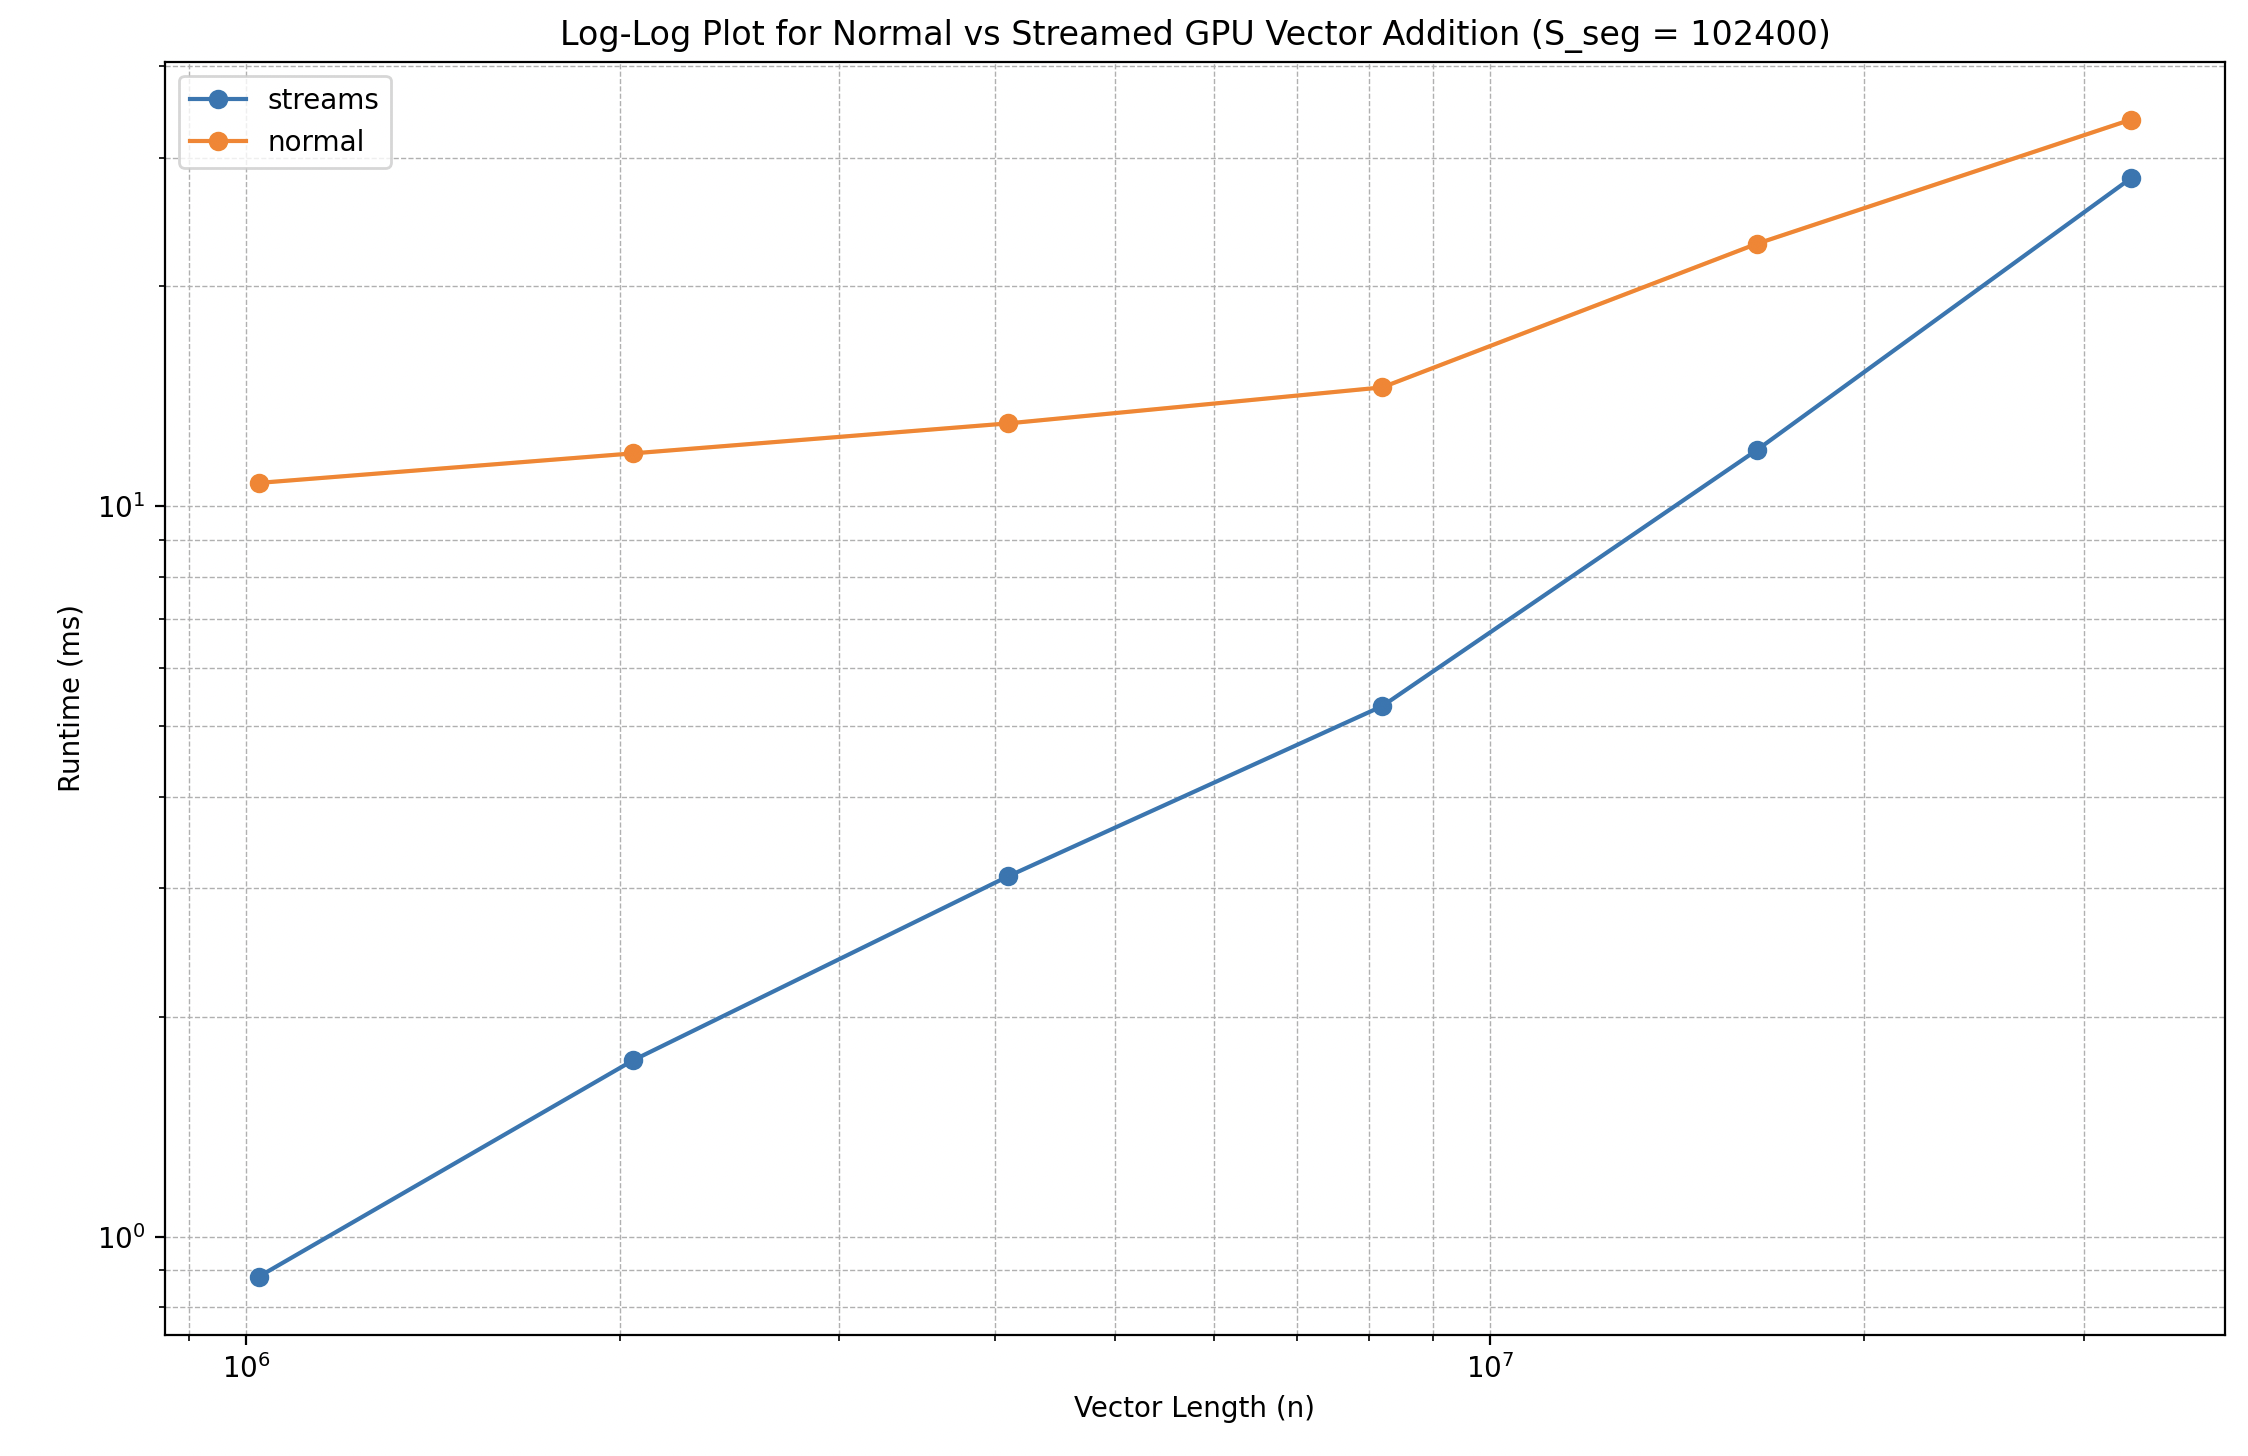
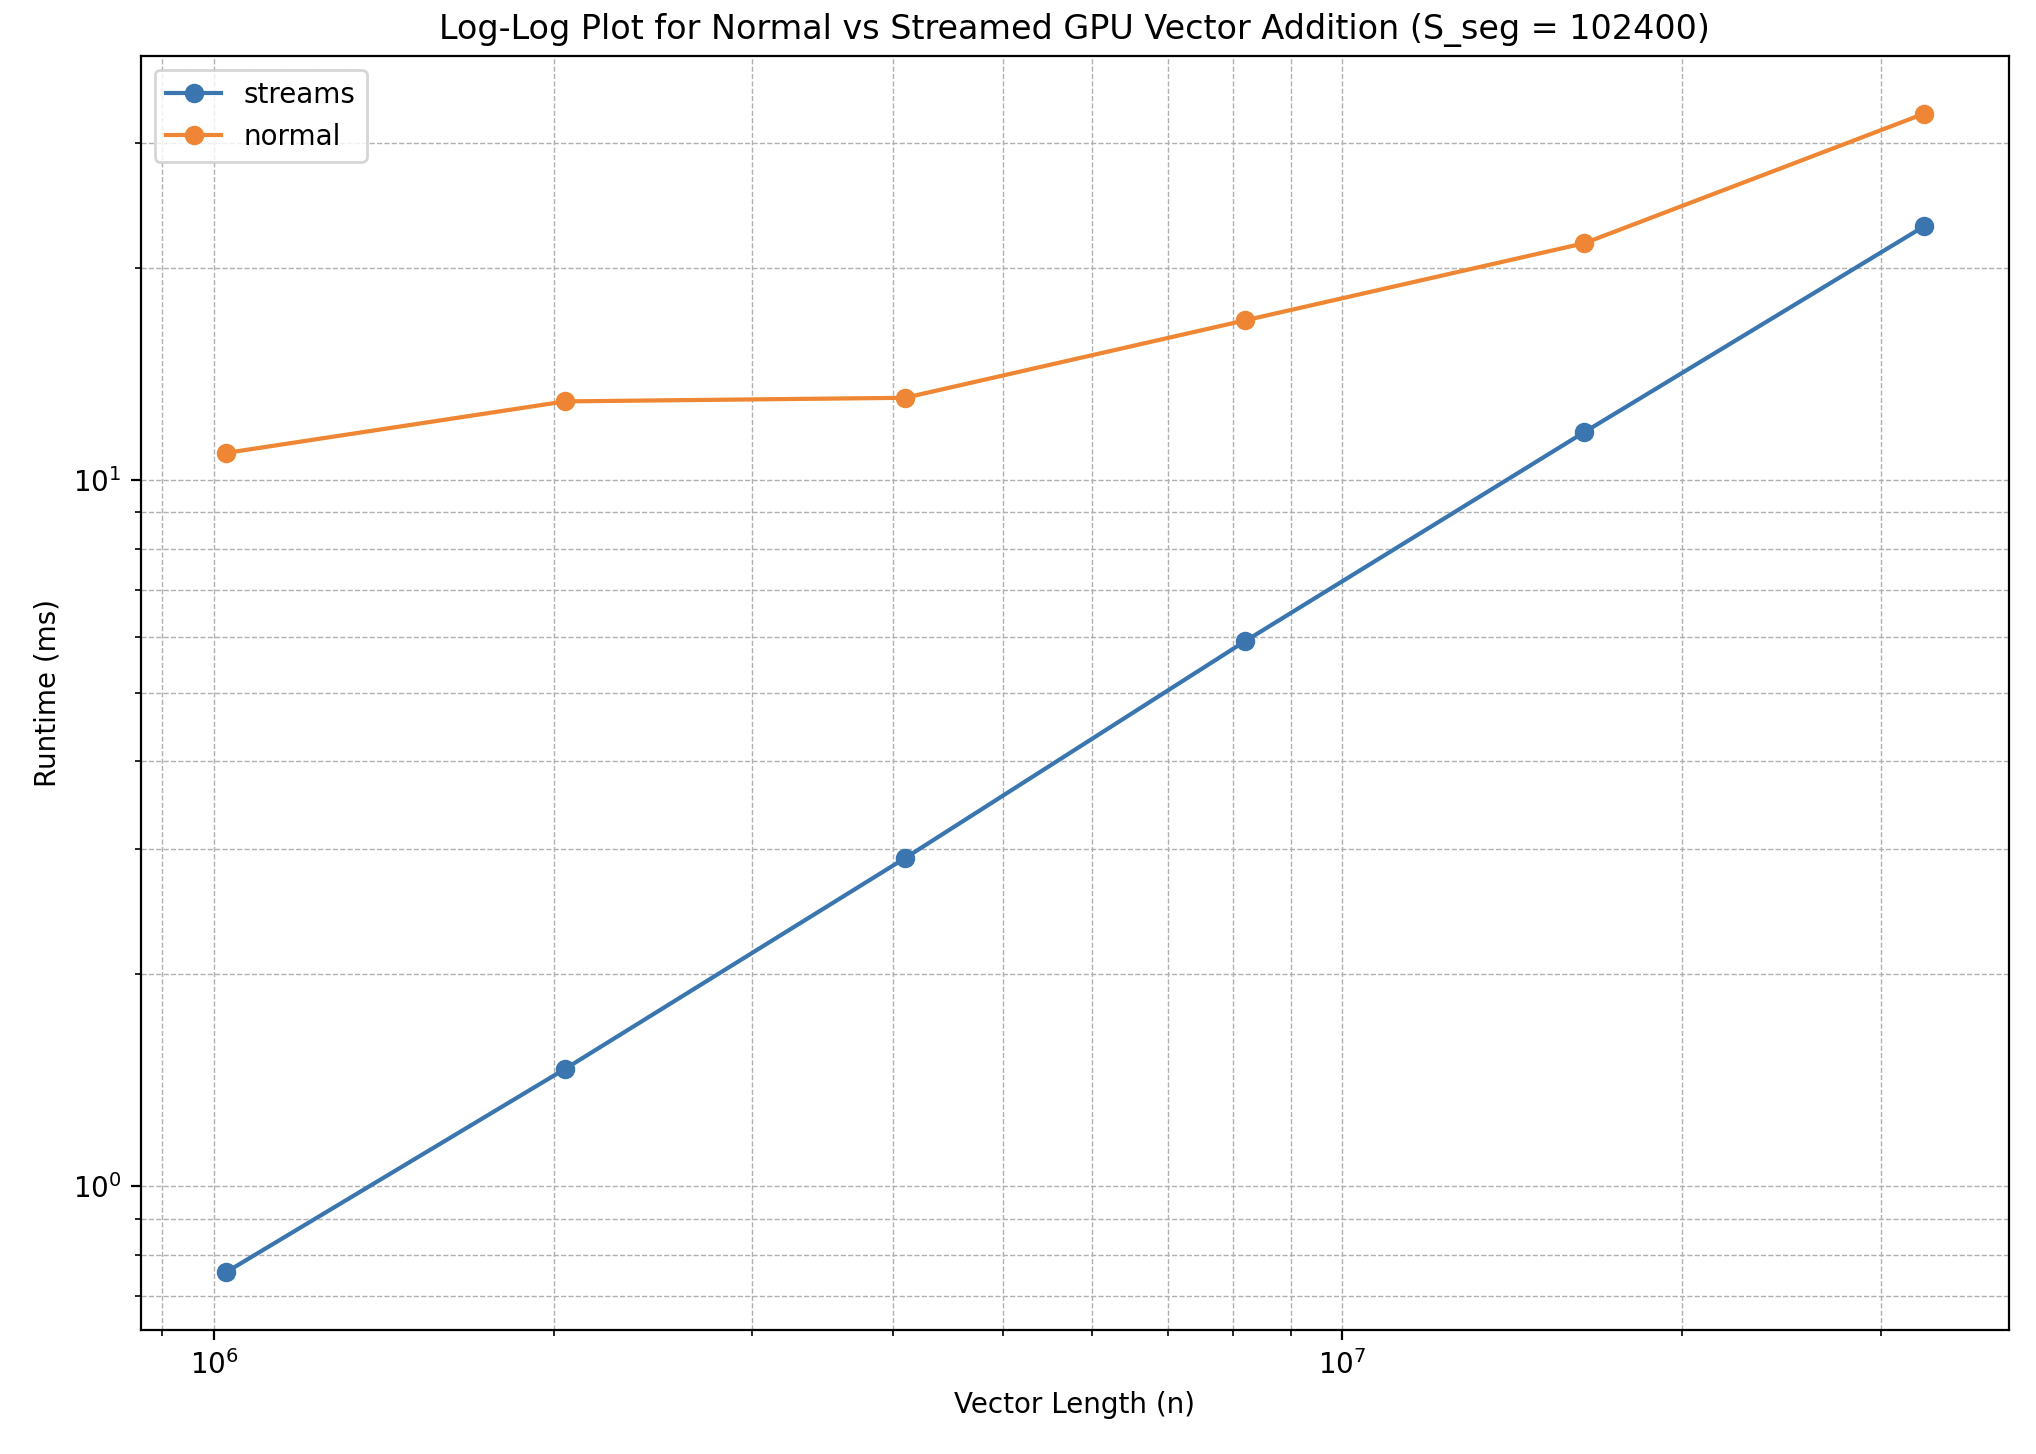
well i lied this is everything from a3-q2

diff --git a/a3/report/DD2360HT25_HW3_Group21.tex b/a3/report/DD2360HT25_HW3_Group21.tex
@@ -248,9 +248,48 @@ Now in the MoB, there are $\ceil{600 / 64} = 10$ blocks in the X-direction and $
 So, in total, there are $896 + 3$ or \textbf{899 warps} facing control divergence in this configuration.
 
 \section{Exercise 2}
+The file \verb|q2/vecAddKernel.cu| contains our implementation of the streamed and normal vector addition using CUDA. The major changes to the original file include using \textbf{pinned host memory} through calls to \verb|cudaHostAlloc| instead of \verb|malloc|, and the addition of the streamed way of distributing work for vector addition. The CUDA kernel itself is called \verb|addGpu| and remains unchanged from Assignment 1
+
+For the streamed implementation, we first determine the number of segments the original array will be divided in to based on the provided \verb|S_seg|. We then create 4 streams as requested by the assignment, and then iterate through the segments, distributing them to the 4 streams in a \textbf{round-robin} fashion (segment \verb|i| goes to stream \verb|i \% 4|), taking care of appropriate boundary conditions. We use \verb|cudaMemcpyAsync| for D-to-H and H-to-D memory transfer. For the kernel launch configuration, we use 1024 threads per block, and the number of blocks that the kernel acts on is $\ceil{S_{seg} / 1024}$ (except for the last segment which might include less than $S_{seg}$ elements. 
+
 \subsection{Normal vs Streamed GPU Vector Addition}
+\label{sec:q2_part1}
+\begin{figure}[t]
+  \begin{center}
+    \includegraphics[width=.75\textwidth]{../images/q2/part1.png}
+  \end{center}
+  \caption{Normal vs Streamed GPU Vector Addition Keeping $S_{seg}$ Constant}\label{fig:ex2_part1}
+\end{figure}
+Figure \ref{fig:ex2_part1} shows the log-log plot comparing the runtime of the Normal GPU Vector Addition (from Assignment 1) with the Streamed Implementation. We vary the vector-length while keeping the segment size ($S_{seg}$) at a constant of 102,400. We see that for all vector lengths, the streamed version of vector addition is \textbf{faster} than the normal vector addition on the GPU. The reason for this is likely the communication-computation overlap, which allows each of the streams in the the streamed vector addition to begin computation independently of other streams instead of waiting for the entire data to be transferred before computing (which is the case with normal vector addition). 
+
+We see that as the number of elements in the input vectors increase, so does the runtime of the streamed version (and the normal version). This is likely because we are keeping the number of streams and the segment size constant, and thus the same streams now need to deal with a higher number of segments, which makes the streamed version's runtime approach the runtime of the normal implementation. The cost of creating and handling the higher number of segments (for eg: more kernel launches) is also likely contributing to the increased runtime of the streamed vector addition as the input length increases. 
+
+The raw data for the plot presented in Figure \ref{fig:ex2_part1} is available in the \verb|q2/normal_v_streams.txt| file. We see that we get a speedup of up to \textbf{15x} for the smallest vector length, with the speedup gradually decreasing as we increase the vector lengths and the streamed runtime approaches the normal runtime. The speedup in the streamed version for the longest vector length is around \textbf{1.44x}. The likely reasons for why the streamed version approaches the normal version in runtime as we increase the vector length but keep the number of streams and segment size constant was discussed above.
+
+The python script to run the experiment is \verb|q2/normal_vs_streams.py|, which generates the results \verb|.txt| file above. To plot the file, the \verb|q2/plot.py| file was used. The runtimes were obtained on the School GPU Cluster with the H100 GPUs. 
+
 \subsection{Profiling Using nvprof}
+We ran \verb|nvprof| on Google Colab with the Tesla T4 GPUs. The \verb|q2/colab.ipynb| file contains the short Jupyter Notebook containing information about the \verb|nvprof| run. The file obtained from the \verb|nvprof| run is available in the \verb|q2/| directory with the name \verb|vector_addition_streams.nvvp|.
+Unfortunately, we had a lot of issues installing the NVIDIA Visual Profiler on an M1 Macbook. We made a Canvas post about it \href{https://canvas.kth.se/courses/57317/discussion_topics/513951}{here}. We tried a few versions but faced the same problem. As a workaround, we even tried to install an Ubuntu VM using UTM on the MacOS and tried to get the NVIDIA CUDA Toolkit, but there we also faced issues with the toolkit and some of the tools not installing properly. When we were finally able to install NVVP on a MacOS laptop, the CUDA versions seem to be an issue. The Visual Profiler is available for MacOS up to CUDA 12.4, but the CUDA \verb|nvprof| version used on Google Colab seems to now be CUDA 12.5. Because of this, we got \textit{Unsupported File Type} errors when trying to visualize the profiling file in NVVP v12.4. Finally, trying to use the School GPU Cluster did not work either, since even though \verb|nvprof| version there is 12.4, using \verb|nvprof| gives us a \textit{nvprof is not supported on devices with compute capability 8.0 and higher} error.
+
+Because of this, unfortunately we are not able to present a visualization of the profiling file we obtained from \verb|nvprof|. However, the file profiled using is included with our assignment submission, and given the runtimes and speedup we observed in Section \ref{sec:q2_part1}, we believe that there is a computation-communication overlap because of our usage of streams. We believe that visualizing this file NVVP from CUDA 12.5 should show this overlap. 
+
 \subsection{Impact of Segment Size on Runtime}
+\begin{figure}[t]
+  \begin{center}
+    \includegraphics[width=.75\textwidth]{../images/q2/part3.png}
+  \end{center}
+  \caption{Impact of Segment Size on Runtime of Streamed Vector Addition (keeping $n$ constant)}\label{fig:ex2_part3}
+\end{figure}
+
+Figure \ref{fig:ex2_part3} is a log-log plot which shows the impact of varying segment size on the runtime of the streamed version. The trend seems to be that the \textbf{runtime decreases} as the segment size increases. Thus, larger segments perform better than smaller segment sizes if the array length and the number of streams are the same. The primary reason for this can be the over head associated with the memory transfers and kernel launches, among other things. 
+
+When there are a larger number of segments, we have more calls to \verb|cudaMemcpyAsync| and more kernel launches. While the memory copies are now async between different streams, there is likely still a overhead and  teardown cost associated with it. The same can be said for the kernel launches. Additionally, operating on segments of smaller size might also mean that the SM is not utilized to the fullest extent -- vector addition is a rather straightforward computation, and doing it on incredibly small segments would mean that the kernel launches are incredibly short lived and the computation might not take as long as the kernel launch overhead. 
+
+We believe that these reasons explain the observations in Figure \ref{fig:ex2_part3}. The raw data for the plot presented in Figure \ref{fig:ex2_part3} is available in the \verb|q2/segments.txt| file.
+
+
+The python script to run the experiment is \verb|q2/segments.py|, which generates the results \verb|.txt| file above. To plot the file, the \verb|q2/plot.py| file was used. The runtimes were obtained on the School GPU Cluster with the H100 GPUs. 
 
 \section{Bonus}
 \section{Appendix}
